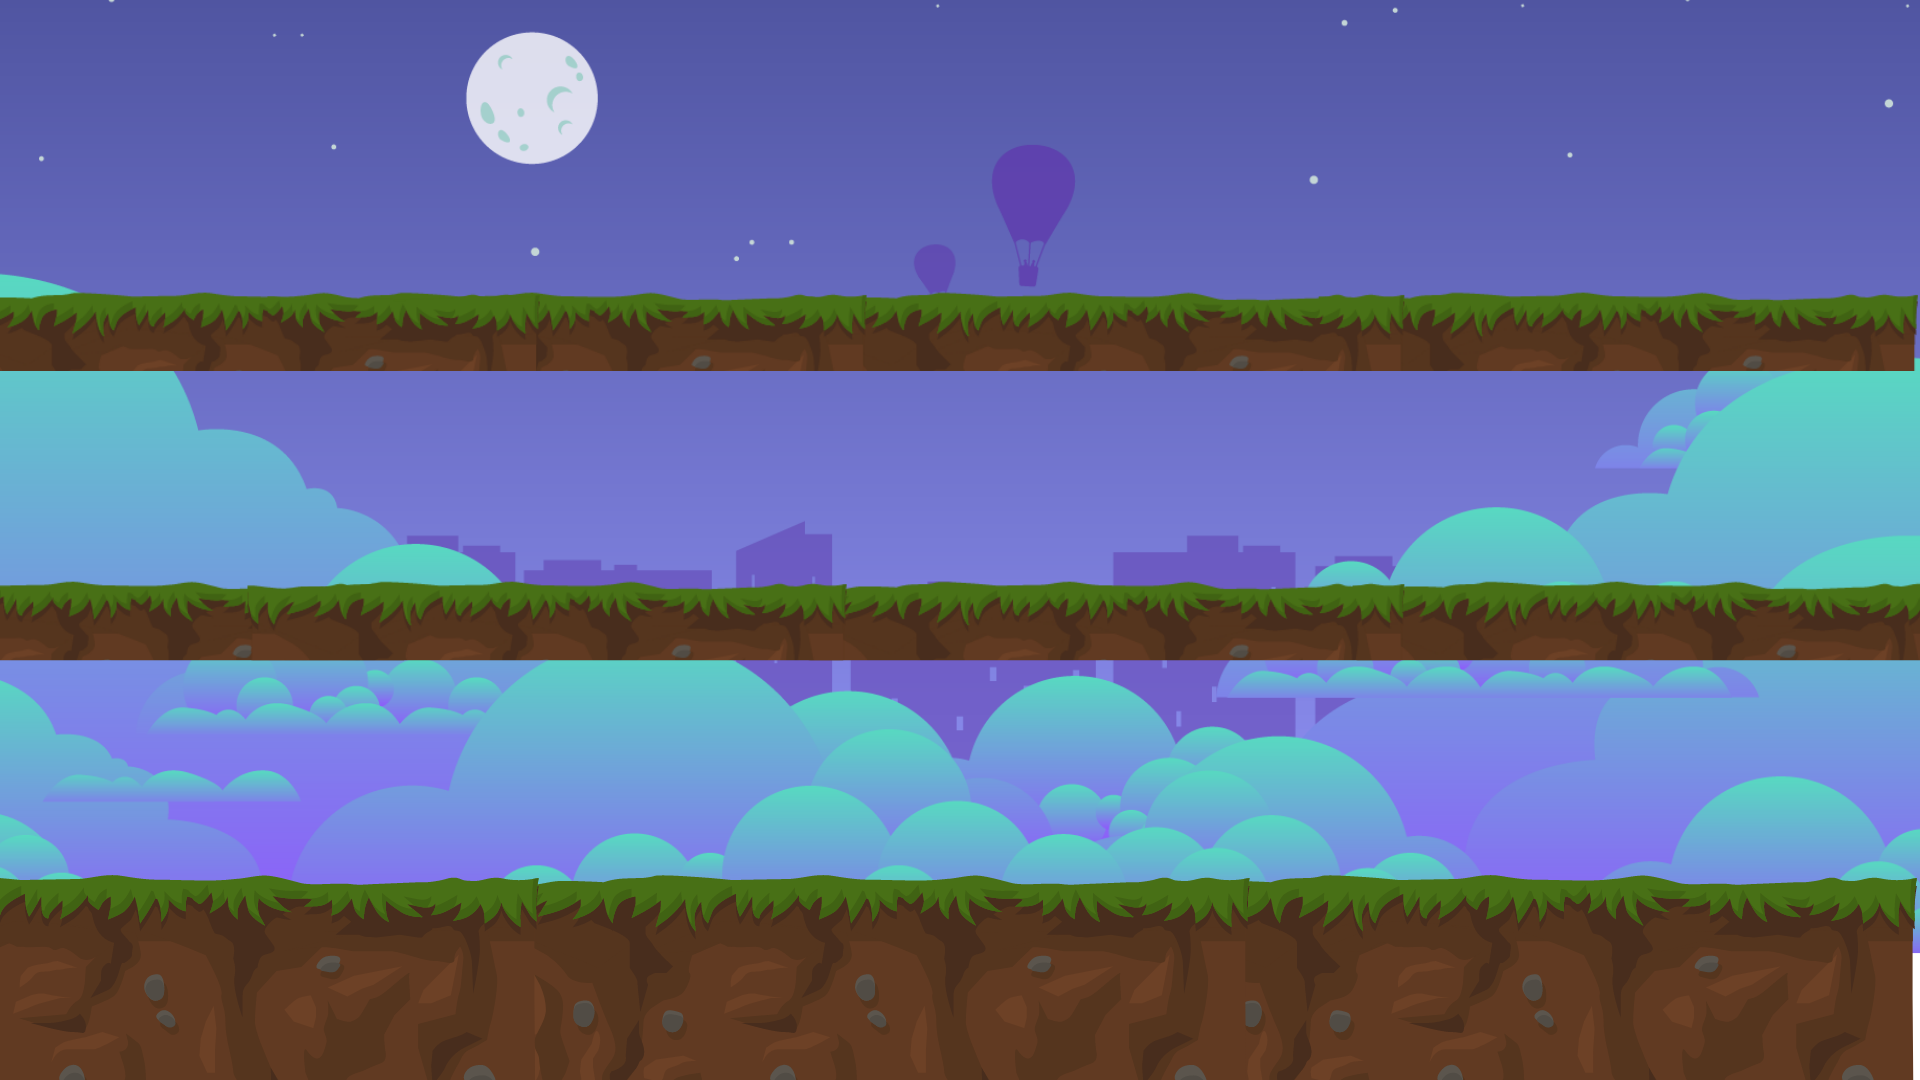
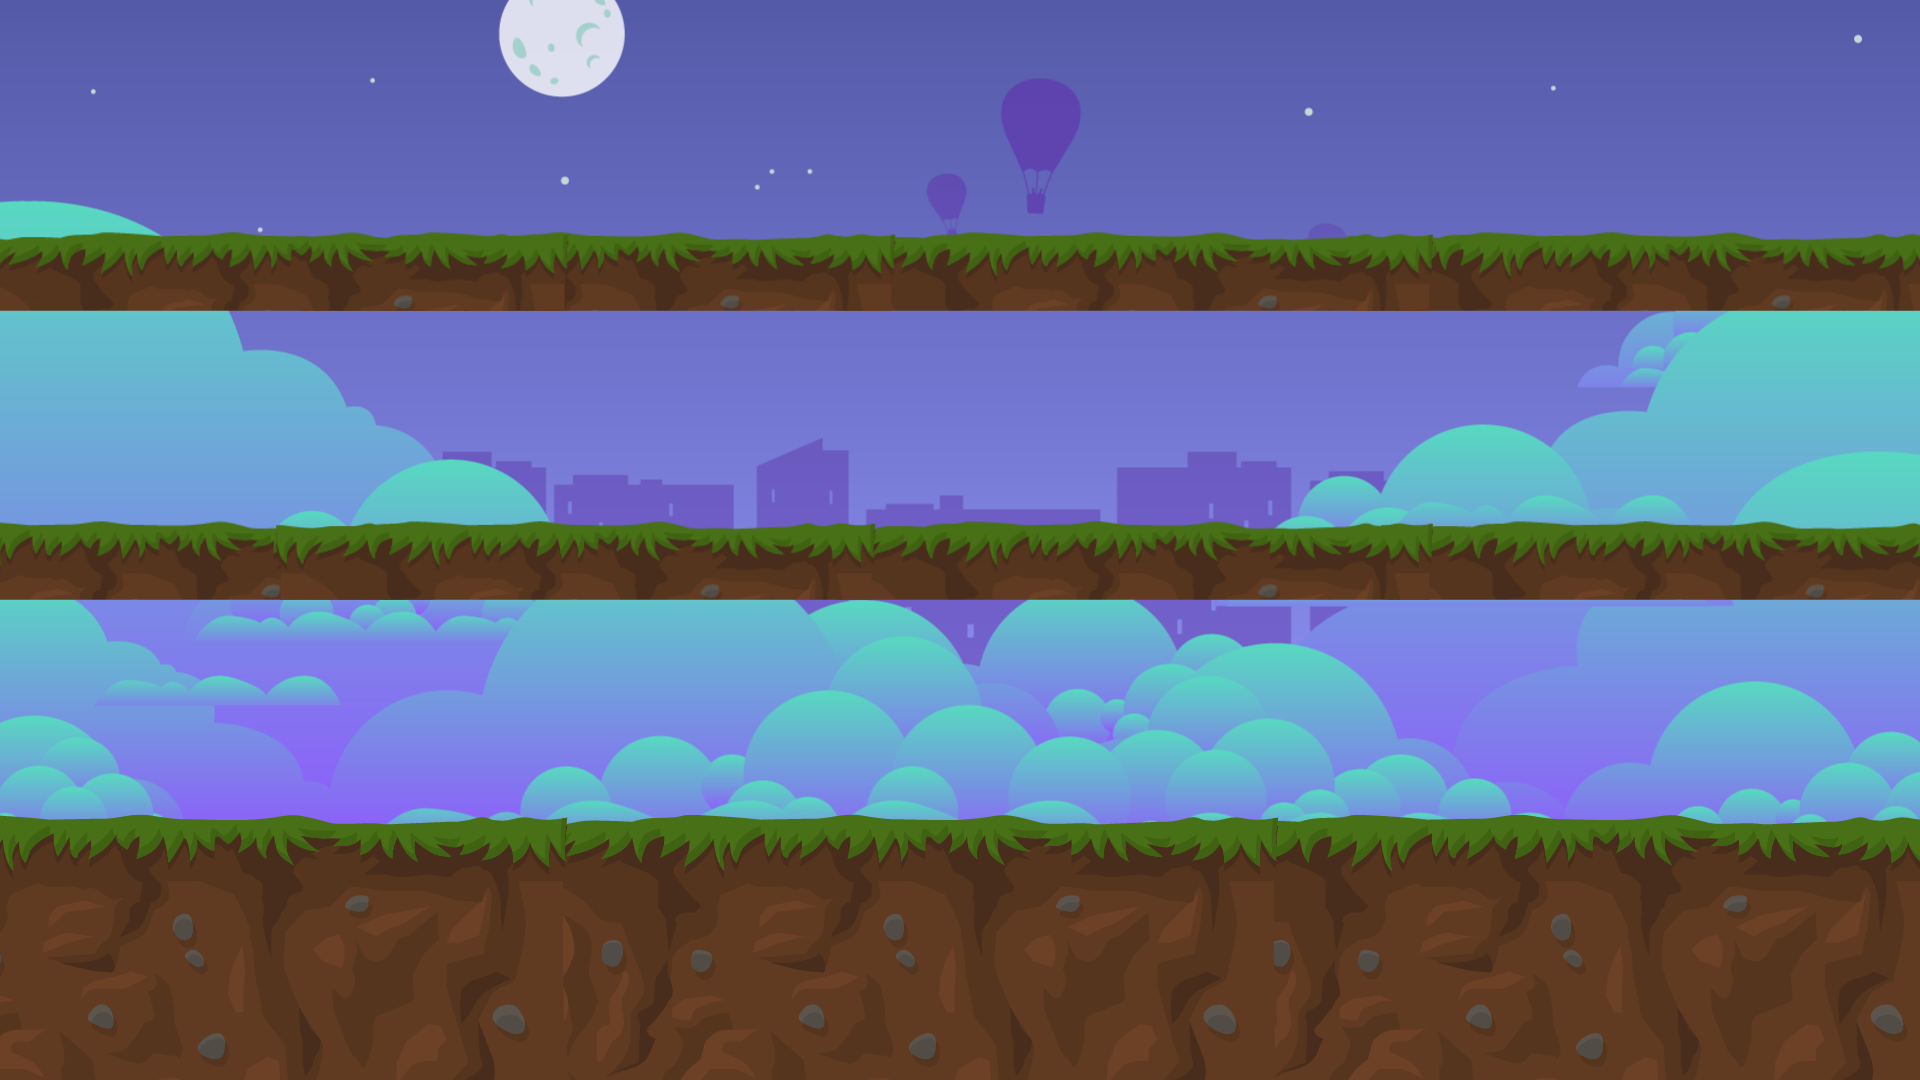
keyboard presses now register

diff --git a/engine.js b/engine.js
@@ -92,6 +92,7 @@ startScene.create = function() {
 
 
 menuScene.preload = function() {
+    this.load.image('background','./assets/middle_background.png')
     this.load.image('button1', './assets/1.png');
     this.load.image('button2', './assets/2.png');
     this.load.image('button3', './assets/3.png');
@@ -104,7 +105,12 @@ menuScene.preload = function() {
     this.load.image('button10', './assets/10.png');
 }
 
+
+var level = 0;
 menuScene.create = function() {
+    this.background = this.add.image(config.width/2, config.height/2, 'background');
+    this.background.setScale(.6);
+    
     this.button1 = this.add.sprite(200, 300, 'button1');
     this.button1.setScale(.2);
     this.button2 = this.add.sprite(350, 300, 'button2');
@@ -126,38 +132,38 @@ menuScene.create = function() {
     this.button10 = this.add.sprite(800, 450, 'button10');
     this.button10.setScale(.2);
     
-    function createTweens(item){
+    function createTweens(item,scaleXSmall, scaleYSmall, scaleXBig, scaleYBig){
         item.onClickTween = menuScene.tweens.add({
             targets: item,
-            scaleX: .12,
-            scaleY: .12,
+            scaleX: scaleXSmall,
+            scaleY: scaleYSmall,
             duration: 100,
             yoyo: true,
             ease: "Quad.easeOut",
             onStart: function(){
-                item.setScale(.11,.11);
+                item.setScale(scaleXBig,scaleYBig);
             }
         });
     
         item.onHoverTween = menuScene.tweens.add({
             targets: item,
-            scaleX: .12,
-            scaleY: .12,
-            duration: 200,
+            scaleX: scaleXBig,
+            scaleY: scaleYBig,
+            duration: 100,
             ease: "Quad.easeIn",
             onStart: function(){
-                item.setScale(.11,.11);
+                item.setScale(scaleXSmall,scaleYSmall);
             }
         });
     
         item.onLeaveTween = menuScene.tweens.add({
             targets: item,
-            scaleX: .11,
-            scaleY: .11,
+            scaleX: scaleXSmall,
+            scaleY: scaleYSmall,
             duration: 200,
             ease: "Quad.easeOut",
             onStart: function(){
-                item.setScale(.12,.12);
+                item.setScale(scaleXBig,scaleYBig);
             }
         });
 
@@ -166,13 +172,14 @@ menuScene.create = function() {
     let buttons = [this.button1, this.button2, this.button3, this.button4, this.button5, this.button6, this.button7, this.button8, this.button9, this.button10];
     
     //establishing tweening and interacivity for all buttons
-    for(i = 0; i< buttons.length; i++){
-        button = buttons[i];
+    for(let i = 0; i< buttons.length; i++){
+        let button = buttons[i];
         button.setInteractive();
-        createTweens(button);
-
+        createTweens(button,.2,.2,.21,.21);
+        
         button.on('pointerdown', function(){
             button.onClickTween.restart();
+            level = i + 1;
             menuScene.scene.start("Game");
          });
     
@@ -197,23 +204,214 @@ gameScene.preload = function(){
     this.load.image('cannon','./assets/cannon.png');
     this.load.image('ghost', './assets/ghost.png');
     this.load.image('cannonball', './assets/Cannonball.jpg');
+    this.load.image('scoreBox','./assets/score_box.png')
 }
+
+
+
+
 
 gameScene.create = function(){
     this.background = this.add.image(config.width/2, config.height/2, 'gameSceneBackground');
     this.background.setScale(.6);
+    
+    this.cannon1 = this.add.sprite(100, 75, 'cannon');
+    this.cannon1.setScale(.35);
+    this.cannon2 = this.add.sprite(100, 250, 'cannon');
+    this.cannon2.setScale(.35);
+    this.cannon3 = this.add.sprite(100, 425, 'cannon');
+    this.cannon3.setScale(.35);
 
-    this.cannon1 = this.add.sprite(100, 125, 'cannon');
-    this.cannon1.setScale(.3);
-    this.cannon2 = this.add.sprite(100, 300, 'cannon');
-    this.cannon2.setScale(.3);
-    this.cannon3 = this.add.sprite(100, 475, 'cannon');
-    this.cannon3.setScale(.3);
+    this.scoreBox = this.add.sprite(config.width/2,575,'scoreBox');
+    this.scoreBox.setScale(.25)
+    this.level = this.add.text(850, 15, "level: " + level, {
+        font: "20px Arial",
+        fill: "#e3fae9",
+        align: "center"
+    });
+    //let possibleMultipliers = [];
+    //for (let i = 0; i<level+3; i++){
+    //    possibleMultipliers.append(i)
+    //}
 
+    let multiplier1 = Math.floor(Math.random()*(level+3))
+    let multiplier2 = Math.floor(Math.random()*(level+3))
+    let multiplier3 = Math.floor(Math.random()*(level+3))
+    let multiplier4 = Math.floor(Math.random()*(level+3))
+    let multiplier5 = Math.floor(Math.random()*(level+3))
+    let multiplier6 = Math.floor(Math.random()*(level+3))
+    
+    this.mathProblem1 = this.add.text(50, 55, multiplier1 + " x " + multiplier2, {
+        font: "40px Arial",
+        fill: "#e3fae9",
+        align: "center",
+        
+    });
+    let solution1 = multiplier1 * multiplier2;
+
+    this.mathProblem2 = this.add.text(50, 230, multiplier3 + " x " + multiplier4, {
+        font: "40px Arial",
+        fill: "#e3fae9",
+        align: "center"
+    });
+    let solution2 = multiplier3 * multiplier4;
+    
+    this.mathProblem3 = this.add.text(50, 405, multiplier5 + " x " + multiplier6, {
+        font: "40px Arial",
+        fill: "#e3fae9",
+        align: "center"
+    });
+    let solution3 = multiplier5 * multiplier6;
+
+    let solutionList = [solution1, solution2, solution3];
+
+    let answer = "";
+    //Their Guess at a solution that is checked against the existing problems
+    let answerText = this.add.text(460, 560, 'Answer', {
+        font: "25px Arial",
+        fill: "#e3fae9",
+        align: "center",
+        
+    });
+    
+    var keyObj = gameScene.input.keyboard.addKey('ONE');  // Get key object
+    keyObj.on('down', function(event) {
+        if (answer.length == 0){
+            answerText.text = '';
+        }
+        answer = answer + '1';
+        answerText.text = answer;
+        
+    });
+
+    var keyObj = gameScene.input.keyboard.addKey('TWO');  // Get key object
+    keyObj.on('down', function(event) {
+        if (answer.length == 0){
+            answerText.text = '';
+        }
+        answer = answer + '2';
+        answerText.text = answer;
+        
+    });
+    var keyObj = gameScene.input.keyboard.addKey('THREE');  // Get key object
+    keyObj.on('down', function(event) {
+        if (answer.length == 0){
+            answerText.text = '';
+        }
+        answer = answer + '3';
+        answerText.text = answer;
+        
+    });
+    var keyObj = gameScene.input.keyboard.addKey('FOUR');  // Get key object
+    keyObj.on('down', function(event) {
+        if (answer.length == 0){
+            answerText.text = '';
+        }
+        answer = answer + '4';
+        answerText.text = answer;
+        
+    });
+    var keyObj = gameScene.input.keyboard.addKey('FIVE');  // Get key object
+    keyObj.on('down', function(event) {
+        if (answer.length == 0){
+            answerText.text = '';
+        }
+        answer = answer + '5';
+        answerText.text = answer;
+        
+    });
+    var keyObj = gameScene.input.keyboard.addKey('SIX');  // Get key object
+    keyObj.on('down', function(event) {
+        if (answer.length == 0){
+            answerText.text = '';
+        }
+        answer = answer + '6';
+        answerText.text = answer;
+        
+    });
+    var keyObj = gameScene.input.keyboard.addKey('SEVEN');  // Get key object
+    keyObj.on('down', function(event) {
+        if (answer.length == 0){
+            answerText.text = '';
+        }
+        answer = answer + '7';
+        answerText.text = answer;
+        
+    });
+    var keyObj = gameScene.input.keyboard.addKey('EIGHT');  // Get key object
+    keyObj.on('down', function(event) {
+        if (answer.length == 0){
+            answerText.text = '';
+        }
+        answer = answer + '8';
+        answerText.text = answer;
+        
+    });
+    var keyObj = gameScene.input.keyboard.addKey('NINE');  // Get key object
+    keyObj.on('down', function(event) {
+        if (answer.length == 0){
+            answerText.text = '';
+        }
+        answer = answer + '9';
+        answerText.text = answer;
+        
+    });
+    var keyObj = gameScene.input.keyboard.addKey('ZERO');  // Get key object
+    keyObj.on('down', function(event) {
+        if (answer.length == 0){
+            answerText.text = '';
+        }
+        answer = answer + '0';
+        answerText.text = answer;
+        
+    });
+    
+    //make a loop thing that just creates the key object when given keyboard press and what should be added
+    //to the answer.
+    
+    var keyObj = gameScene.input.keyboard.addKey('ENTER');  // Get key object
+    keyObj.on('down', function(event) {
+    
+        //check if is part of solutionList
+        for (let i = 0; i< solutionList.length; i++){
+            if (parseInt(answer) == (solutionList[i])){
+                if (i == 0){
+                    console.log("Shoot 1");
+                    shoot(this.cannon1, gameScene);
+                }
+                else if (i == 1){
+                    console.log("Shoot 2");
+                    shoot(this.cannon2, gameScene);
+                }
+                else if (i == 2){
+                    console.log("Shoot 3");
+                    shoot(this.cannon3, gameScene);
+                }
+            }
+        }
+        answer = '';
+        answerText.text = answer;
+    });
+    
 }
 
+function shoot(cannon, scene){
+
+    let multiplier1 = Math.floor(Math.random()*(level+3))
+    let multiplier2 = Math.floor(Math.random()*(level+3))
+    let multiplier3 = Math.floor(Math.random()*(level+3))
+    let multiplier4 = Math.floor(Math.random()*(level+3))
+    let multiplier5 = Math.floor(Math.random()*(level+3))
+    let multiplier6 = Math.floor(Math.random()*(level+3))
+
+    
+    //this.cannon1
+    //add cannonball 
+    //shooting Animation
+}
+
+//have a score that increases, and decreases when you dont make it.
 gameScene.update = function(time, delta) {
-
-
+    
 
 }

diff --git a/cannon.js b/cannon.js
@@ -1,0 +1,45 @@
+class Cannon {
+    constructor(scene, x, y){
+        super(scene, x, y, 'cannon');
+        scene.add.existing(this);
+        this.problemText = this.add.text(x-50, y-20, " " + " x " + " ", {
+            font: "40px Arial",
+            fill: "#e3fae9",
+            align: "center",
+            });
+        this.solution = 0;
+        generateProblem(level);
+        
+    }
+
+    shoot(){
+        
+    }
+
+    generateProblem(level){
+        let multiplier1 = Math.floor(Math.random()*(level+3))
+        let multiplier2 = Math.floor(Math.random()*(level+3))
+        problemText.text = multiplier1 + ' x ' + multiplier2;
+        this.solution = multiplier1 * multiplier2;
+    }
+
+    checkSolution(guess){
+        if (parseInt(guess) == this.solution){
+            return true;
+        }
+        else {
+            return false;
+        }
+    }
+  
+
+    
+    update(){
+
+    }
+  
+  }
+  
+    
+    
+      
